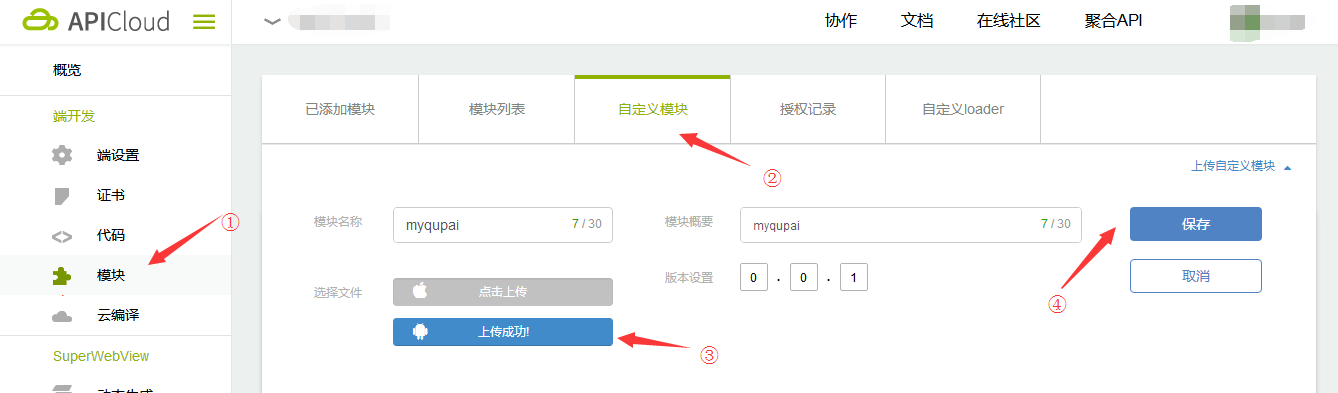
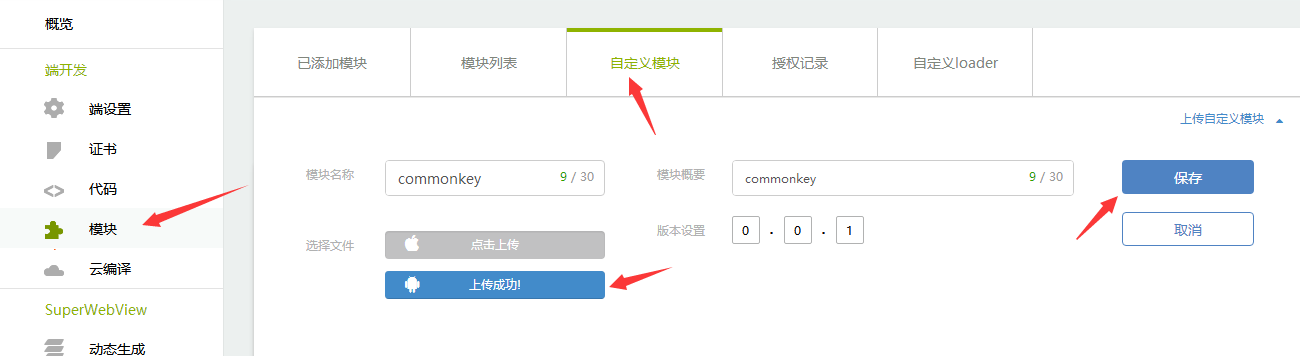
edit md

diff --git a/README.md b/README.md
@@ -79,7 +79,7 @@ APICloud平台使用阿里百川的教程，包含入驻阿里百川，以及注
 
 ![](./img/thyw1222.png)
 
-3、重新压缩自定义模块，直接在myqupai文件夹上点击压缩
+3、重新压缩自定义模块，直接在commonkey文件夹上点击压缩
 
 ![](./img/yasuokey.png)
 
@@ -95,7 +95,7 @@ APICloud平台使用阿里百川的教程，包含入驻阿里百川，以及注
 
 1、手机需要安装手机淘宝，这个应该大部分人都有吧
 
-2、接口使用参考github：[https://github.com/bringmehome/Alibaichuan](https://github.com/bringmehome/Alibaichuan),里面的测试demo
+2、接口使用参考github：[https://github.com/bringmehome/Alibaichuan](https://github.com/bringmehome/Alibaichuan/tree/master/Demo/widget),里面的测试demo
 
 3、测试登录
 
